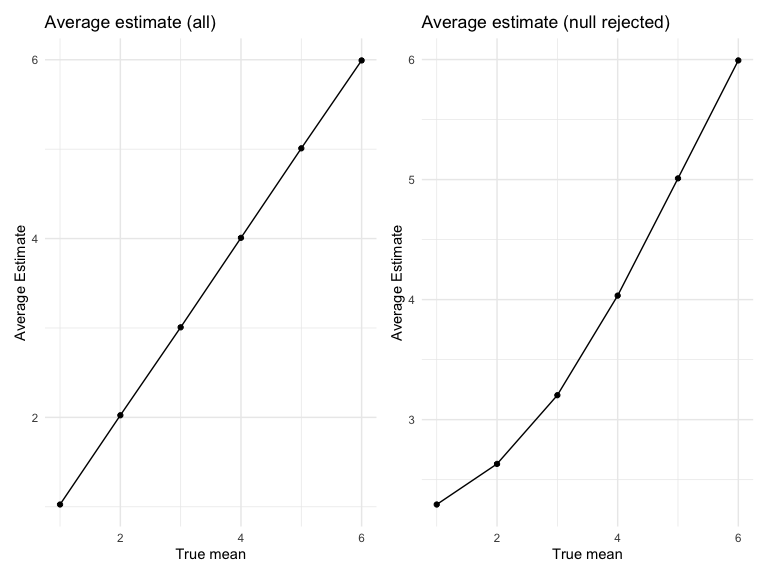
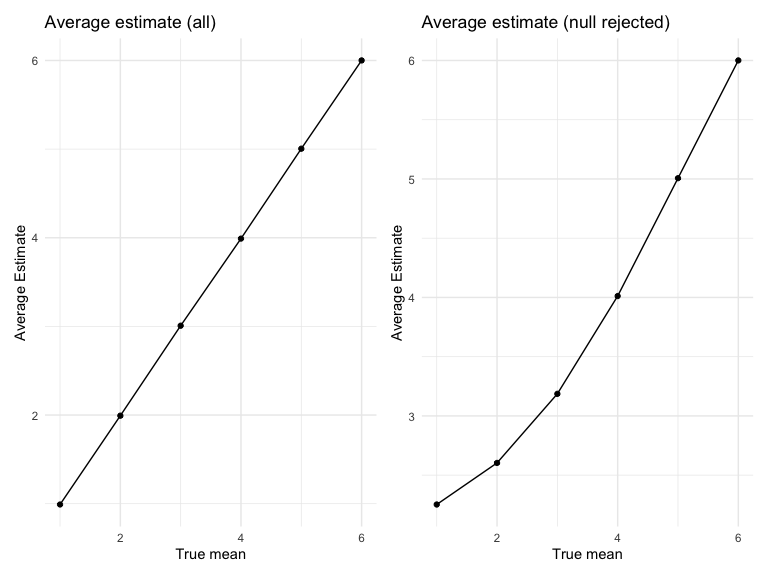
added description

diff --git a/p8105_hw5_hm2947.md b/p8105_hw5_hm2947.md
@@ -212,18 +212,7 @@ homicide_raw <- read_csv("https://raw.githubusercontent.com/washingtonpost/data-
     state = toupper(state),
     city_state = str_c(city, state, sep = ",") %>% 
     str_replace("Tulsa, AL", "Tulsa, OK"))
-```
-
-    ## Rows: 52179 Columns: 12
-    ## ── Column specification ────────────────────────────────────────────────────────
-    ## Delimiter: ","
-    ## chr (9): uid, victim_last, victim_first, victim_race, victim_age, victim_sex...
-    ## dbl (3): reported_date, lat, lon
-    ## 
-    ## ℹ Use `spec()` to retrieve the full column specification for this data.
-    ## ℹ Specify the column types or set `show_col_types = FALSE` to quiet this message.
-
-``` r
+    
 homicide_tidy = 
   homicide_raw %>% 
   mutate(
@@ -367,16 +356,16 @@ sim_df0
     ## # A tibble: 5,000 × 4
     ##       mu iterate estimate p.value
     ##    <dbl>   <int>    <dbl>   <dbl>
-    ##  1     0       1    0.645  0.428 
-    ##  2     0       2    0.292  0.731 
-    ##  3     0       3   -0.433  0.546 
-    ##  4     0       4    0.418  0.611 
-    ##  5     0       5    0.367  0.686 
-    ##  6     0       6   -0.582  0.527 
-    ##  7     0       7   -1.45   0.0671
-    ##  8     0       8   -1.10   0.290 
-    ##  9     0       9    0.159  0.813 
-    ## 10     0      10   -1.20   0.184 
+    ##  1     0       1   0.416    0.623
+    ##  2     0       2  -0.591    0.463
+    ##  3     0       3  -0.0362   0.971
+    ##  4     0       4   0.803    0.241
+    ##  5     0       5  -0.105    0.909
+    ##  6     0       6   0.552    0.419
+    ##  7     0       7  -1.23     0.193
+    ##  8     0       8  -0.743    0.510
+    ##  9     0       9   0.0136   0.987
+    ## 10     0      10   0.446    0.573
     ## # … with 4,990 more rows
 
 ``` r
@@ -395,16 +384,16 @@ sim_df
     ## # A tibble: 30,000 × 4
     ##       mu iterate estimate p_value
     ##    <int>   <int>    <dbl>   <dbl>
-    ##  1     1       1  -0.158  0.849  
-    ##  2     1       2   1.63   0.0485 
-    ##  3     1       3   0.703  0.422  
-    ##  4     1       4  -0.0833 0.924  
-    ##  5     1       5  -0.471  0.661  
-    ##  6     1       6   1.86   0.0163 
-    ##  7     1       7   1.79   0.0622 
-    ##  8     1       8   1.89   0.00849
-    ##  9     1       9   2.13   0.0312 
-    ## 10     1      10  -0.250  0.777  
+    ##  1     1       1   3.60   0.00205
+    ##  2     1       2   1.66   0.0295 
+    ##  3     1       3   0.998  0.192  
+    ##  4     1       4   0.177  0.833  
+    ##  5     1       5   0.346  0.649  
+    ##  6     1       6   1.99   0.0412 
+    ##  7     1       7   0.0387 0.963  
+    ##  8     1       8   1.34   0.154  
+    ##  9     1       9  -0.546  0.536  
+    ## 10     1      10   2.12   0.0202 
     ## # … with 29,990 more rows
 
 ### Making Plots
@@ -434,6 +423,12 @@ sim_df %>%
     ## argument.
 
 <img src="p8105_hw5_hm2947_files/figure-gfm/unnamed-chunk-9-1.png" width="90%" />
+
+According to the plot, as the true mean increases from 1 to 6, the
+proportion of rejected null also increase from approximately 0.2 to 1
+following a rapid increase from x = 1 to x = 3. Then a slow increase
+until it has reached the maximum 1. The larger the effect size, the
+greater the power.
 
 ### Making two plots of average estimate comparing all data and those with null rejected.
 
@@ -470,3 +465,10 @@ plot_1 + plot_2
 ```
 
 <img src="p8105_hw5_hm2947_files/figure-gfm/unnamed-chunk-10-1.png" width="90%" />
+
+For the rejected null samples the sample average is barely equal to the
+true mean when the true mean is smaller and equal to 3. The sample
+average is higher than the true mean when the true mean increases pass
+3. The reason for this is because the probability of rejecting the null
+hypothesis increases with increased effect size. As samples with higher
+true means are simulated, more effects are applied.
